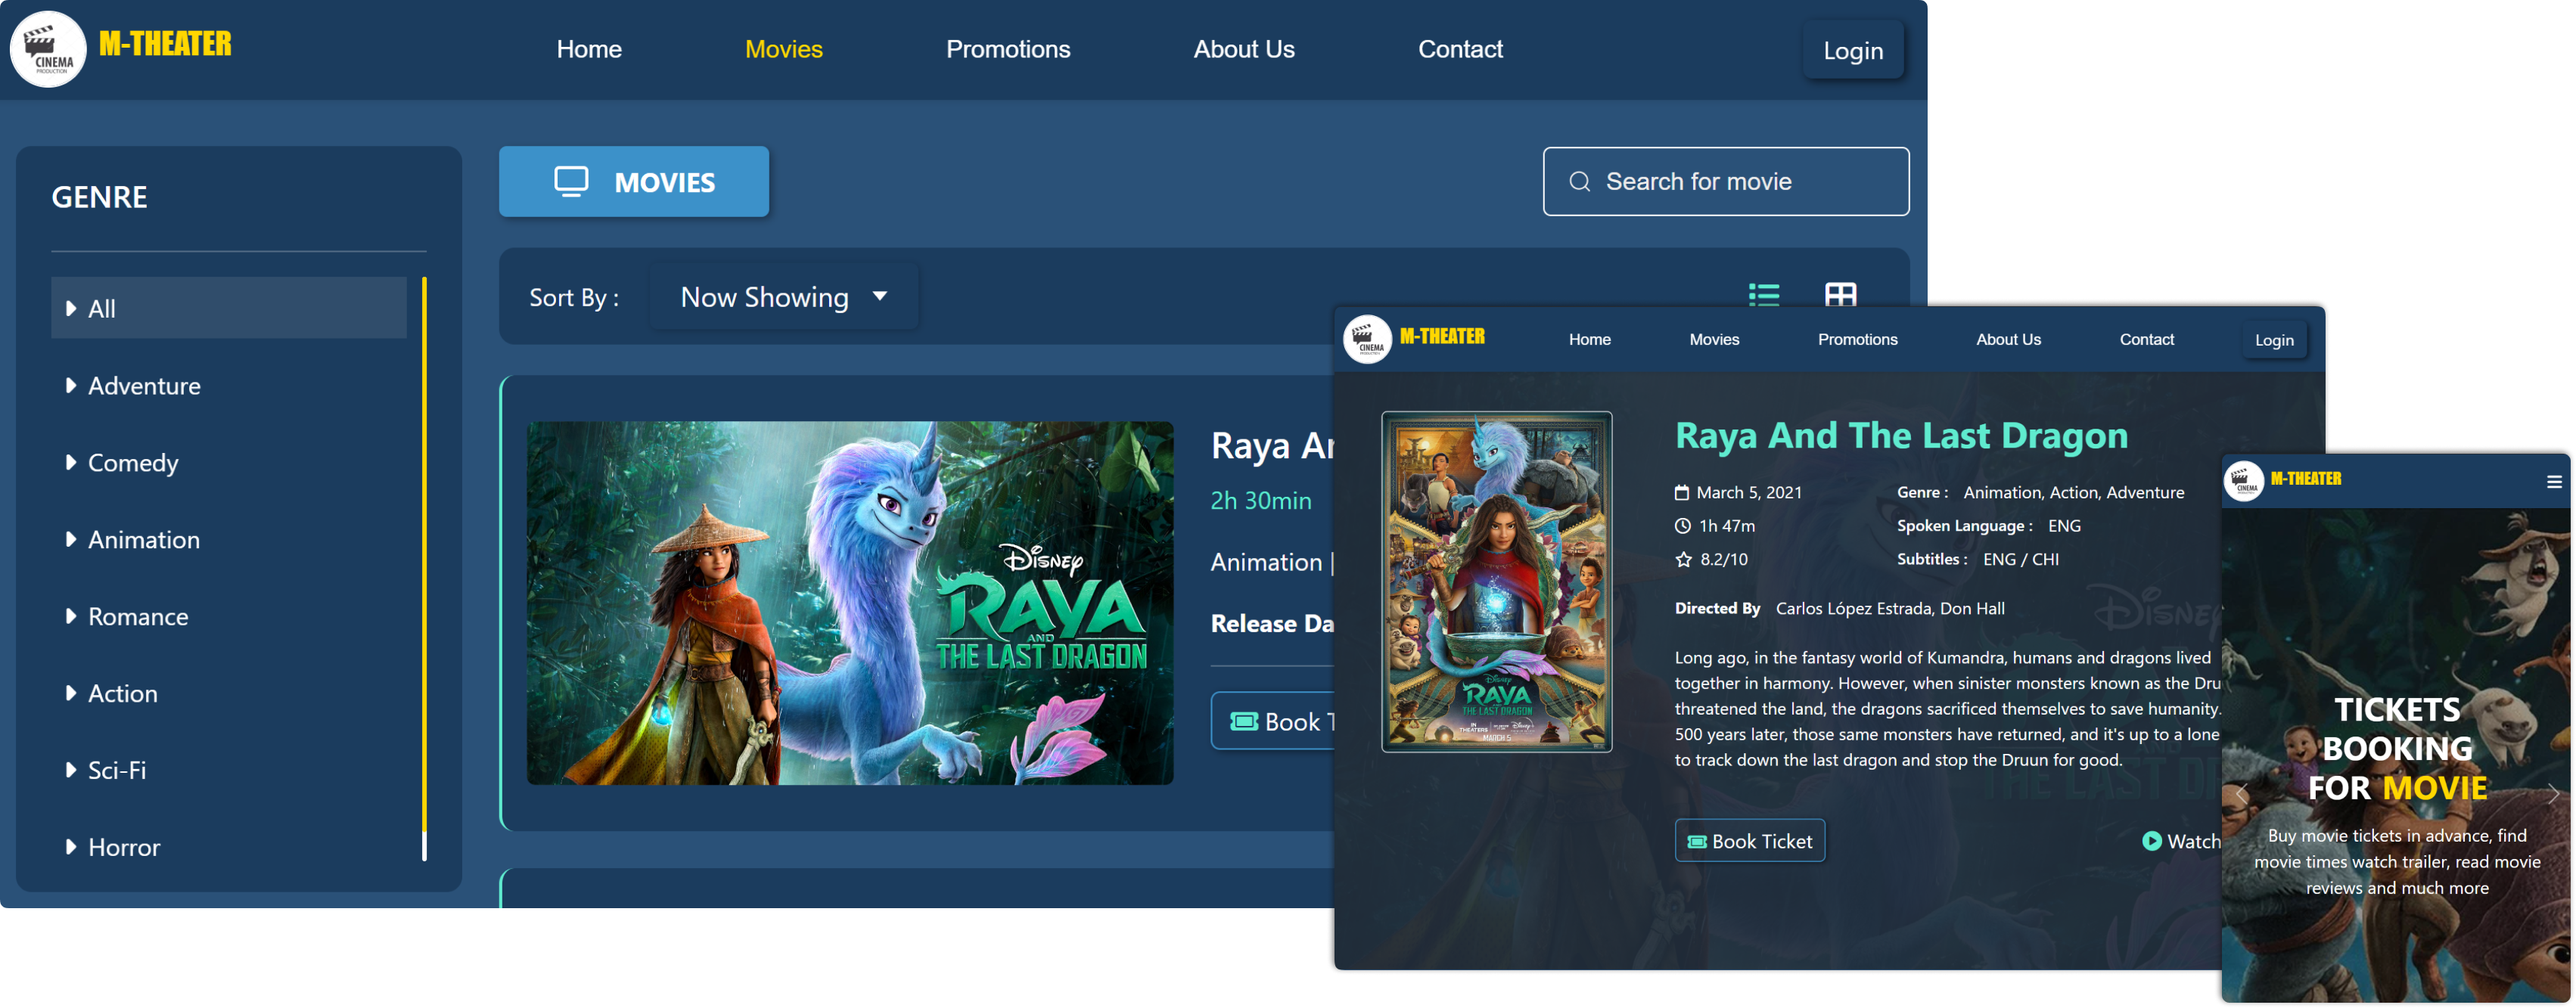
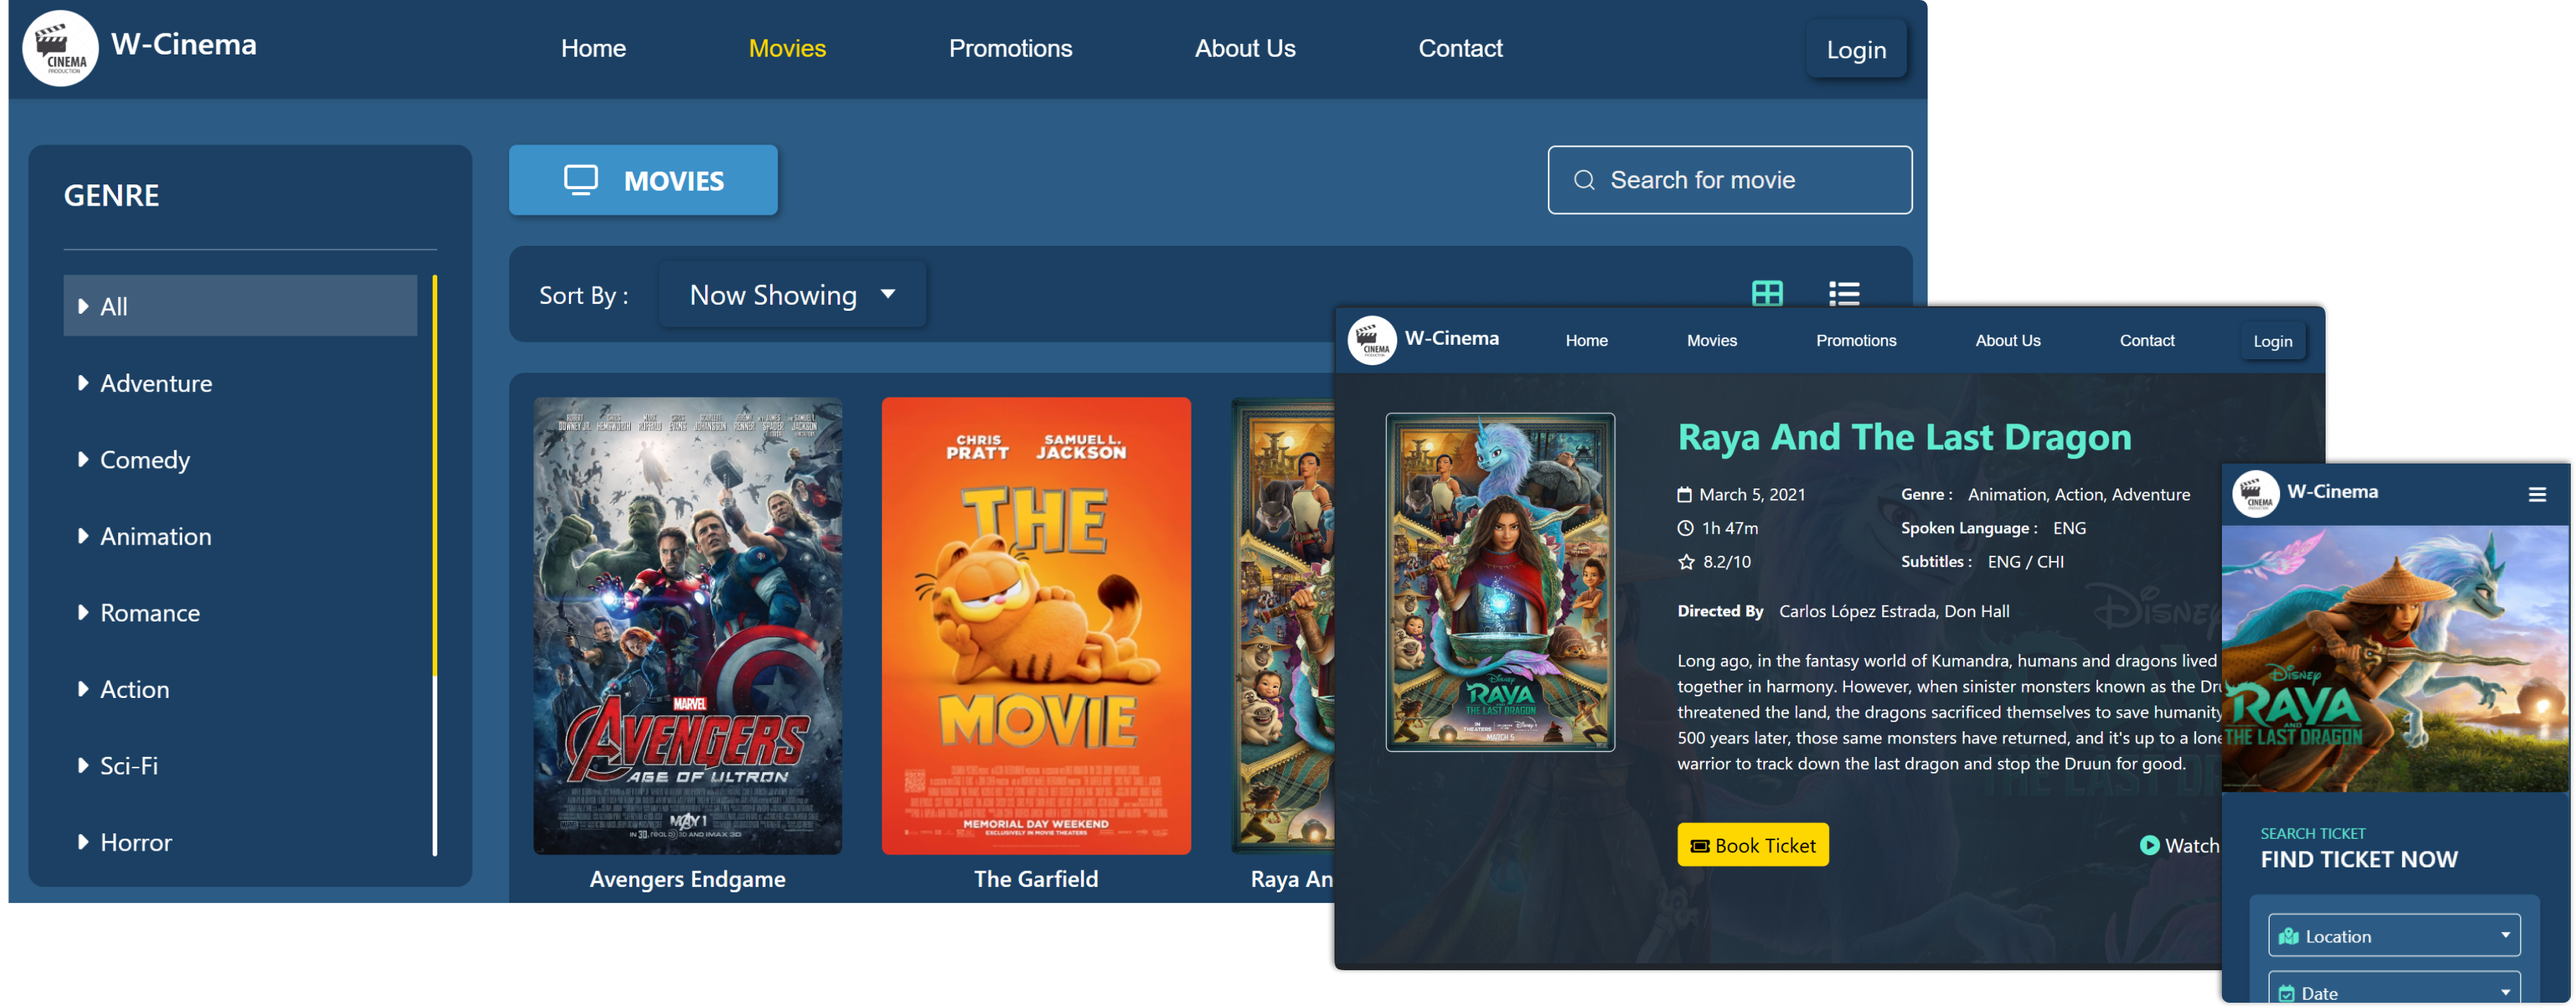
last last commit

diff --git a/index.html b/index.html
@@ -359,12 +359,12 @@
                     </div>
                 </div>
             </div>
-            <!-- <div id="portfolio-content">
+            <div id="portfolio-content">
                 <img src="image/cinema.png" class="mx-auto d-block" alt="">
                 <div class="mt-4">
                     <div class="d-flex align-items-center justify-content-between">
-                        <h3>M-THEATER</h3>
-                        <a href="#" target="_blank">
+                        <h3>W-Cinema</h3>
+                        <a href="https://cinema-booking-hp.netlify.app/" target="_blank">
                             <button id="demo" class="btn">Demo</button>
                         </a>
                     </div>
@@ -376,7 +376,7 @@
                         <span>JQuery</span>
                     </div>
                 </div>
-            </div> -->
+            </div>
             <div id="portfolio-content">
                 <img src="image/uni.png" class="mx-auto d-block" alt="">
                 <div class="mt-4">
@@ -456,13 +456,13 @@
                         </div>
                     </div>
                 </div>
-                <!-- <div class="swiper-slide">
+                <div class="swiper-slide">
                     <div id="portfolio-content-ph">
                         <img src="image/c1.PNG" class="mx-auto d-block" alt="">
                         <div class="mt-4">
                             <div class="d-flex align-items-center justify-content-between">
                                 <h3>M-THEATER</h3>
-                                <a href="#">
+                                <a href="https://cinema-booking-hp.netlify.app/">
                                     <button id="demo" class="btn">Demo</button>
                                 </a>
                             </div>
@@ -475,7 +475,7 @@
                             </div>
                         </div>
                     </div>
-                </div> -->
+                </div>
                 <div class="swiper-slide">
                     <div id="portfolio-content-ph">
                         <img src="image/uni1.PNG" class="mx-auto d-block" alt="">
